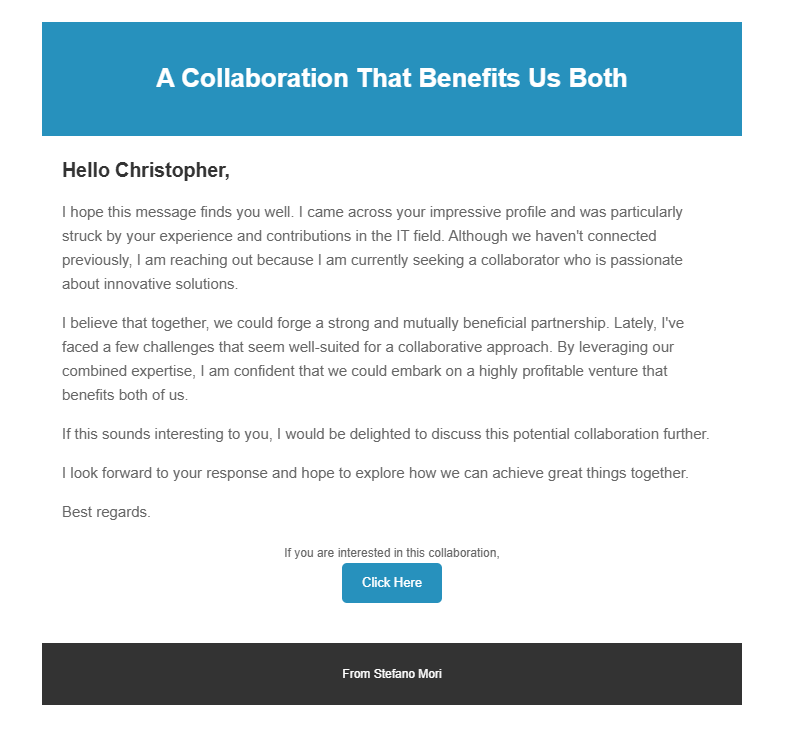
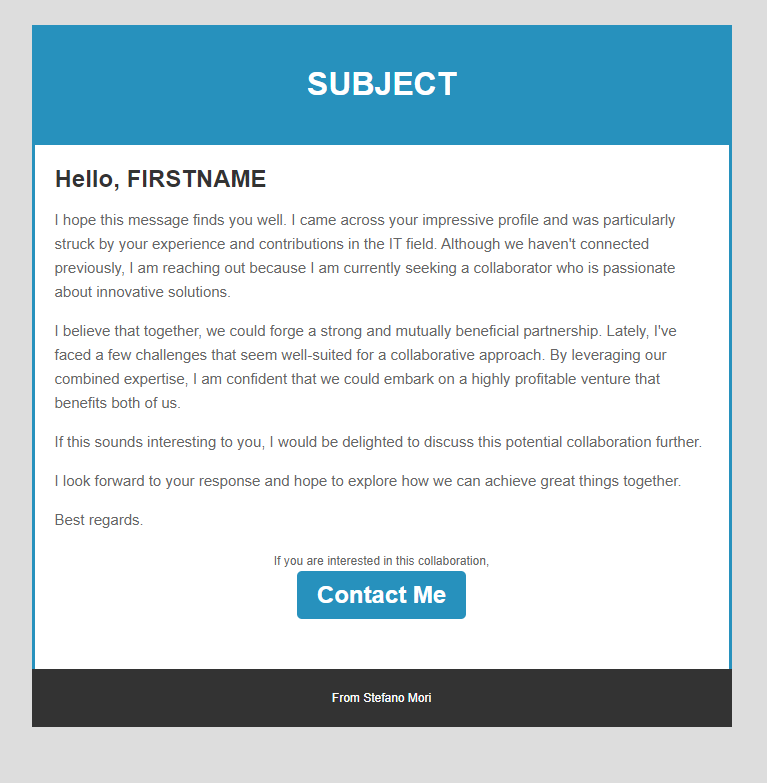
Update: Sheet Structure and Scripts

diff --git a/Email Template.html b/Email Template.html
@@ -8,6 +8,7 @@
     <style>
         body {
             margin: 0;
+            margin-top: 30px;
             padding: 0;
             font-family: Arial, sans-serif;
             background-color: #DDDDDD;
@@ -27,6 +28,13 @@
             color: white;
             text-align: center;
             padding: 20px;
+            border-left: solid #2791bd;
+            border-right: solid #2791bd;
+        }
+
+        .body{
+            border-left: solid #2791bd;
+            border-right: solid #2791bd;
         }
 
         .content {
@@ -50,10 +58,10 @@
             margin: 20px 0;
         }
 
-        .cta a {
+        .cta h2 {
             display: inline-block;
             background-color: #2791bd;
-            color: white;
+            color: white!important;
             text-decoration: none;
             padding: 10px 20px;
             border-radius: 5px;
@@ -70,6 +78,8 @@
             text-align: center;
             padding: 10px;
             font-size: 12px;
+            border-left: solid #333333;
+            border-right: solid #333333;
         }
     </style>
 </head>
@@ -81,21 +91,26 @@
                 <h1>SUBJECT</h1>
             </td>
         </tr>
-        <tr>
+        <tr class="body">
             <td class="content">
-                <h2 id="greeting">Hello FIRSTNAME,</h2>
+                <h2 id="greeting">Hello, FIRSTNAME</h2>
                 <p>
-                    I hope this message finds you well. I came across your impressive profile and was particularly struck by your experience
-                    and contributions in the IT field. Although we haven't connected previously, I am reaching out because I am currently
+                    I hope this message finds you well. I came across your impressive profile and was particularly
+                    struck by your experience
+                    and contributions in the IT field. Although we haven't connected previously, I am reaching out
+                    because I am currently
                     seeking a collaborator who is passionate about innovative solutions.
                 </p>
-                    
-                <p> I believe that together, we could forge a strong and mutually beneficial partnership. Lately, I've faced a few
-                    challenges that seem well-suited for a collaborative approach. By leveraging our combined expertise, I am confident that
+
+                <p> I believe that together, we could forge a strong and mutually beneficial partnership. Lately, I've
+                    faced a few
+                    challenges that seem well-suited for a collaborative approach. By leveraging our combined expertise,
+                    I am confident that
                     we could embark on a highly profitable venture that benefits both of us.
                 </p>
-                 <p>
-                    If this sounds interesting to you, I would be delighted to discuss this potential collaboration further.
+                <p>
+                    If this sounds interesting to you, I would be delighted to discuss this potential collaboration
+                    further.
                 </p>
                 <p>
                     I look forward to your response and hope to explore how we can achieve great things together.
@@ -105,7 +120,7 @@
                 </p>
                 <div class="cta">
                     <p>If you are interested in this collaboration,</p>
-                    <a href="TRACKINGURL">Click Here</a>
+                    <h2>Contact Me</h2>
                 </div>
             </td>
         </tr>

diff --git a/Google App Scripts.js b/Google App Scripts.js
@@ -1,5 +1,6 @@
-const SHEET_ID = 'Sheed_ID'; // Replace with your actual Google Sheet ID
-const SHEET_NAME = 'Sheet_Name'; // Adjusted to your actual sheet name
+const SHEET_ID = 'Sheed_ID';      // Replace with your actual Google Sheet ID
+const SHEET_NAME = 'Sheet_Name';  // Adjusted to your actual sheet name
+const SHEET_ET_1 = 'Sheet_Name';        // Adjusted to your actual sheet name
 
 function onOpen() {
   const ui = SpreadsheetApp.getUi();
@@ -17,27 +18,35 @@ function showDialog() {
 
 function sendEmails(startRow, numOfEmails) {
   const ss = SpreadsheetApp.openById(SHEET_ID);
-  const sheet = ss.getSheetByName(SHEET_NAME);
-  const dataRange = sheet.getRange(startRow, 1, numOfEmails, 3);
+  const sheet = ss.getSheetByName(SHEET_STATE);
+  const dataRange = sheet.getRange(startRow, 1, numOfEmails, 2);
   const data = dataRange.getValues();
+
+  const sheet_et = ss.getSheetByName(SHEET_ET_1);
+  
 
   data.forEach((row, index) => {
     const rowIndex = startRow + index;
     const emailAddress = row[0];
-    const subject = row[1];
-    const body = row[2];
-    
+    const receiverName = row[1];
     const trackingImageUrl = `Deploy_URL?event=open&row=${rowIndex}`; // Replace with your deploye url
+    const subject = sheet_et.getRange(2, 3).getValues()[0][0];
+    const template = sheet_et.getRange(2, 4).getValues()[0][0];
 
+    var firstName = receiverName.split(' ')[0];
+    var changedBody = '';
+    changedBody = template.replace('FIRSTNAME', firstName)
+                          .replace('SUBJECT', subject)
+                          .replace('TRACKINGURL', trackingImageUrl);
     try {
       MailApp.sendEmail({
         to: emailAddress,
         subject: subject,
-        htmlBody: body + `<a href="${trackingImageUrl}" style="height:1px;width:1px;position:absolute;visibility:hidden;">Track Open</a>`
+        htmlBody: changedBody + `<img src="${trackingImageUrl}" style="height:1px;width:1px;display:none;" alt=""/>`
       });
 
       const now = new Date();
-      sheet.getRange(rowIndex, 4).setValue(now);  // Last Sent Email time
+      sheet.getRange(rowIndex, 3).setValue(now);  // Last Sent Email time
     } catch (e) {
       console.error("Failed to send email due to an error:", e.toString());
     }
@@ -60,20 +69,20 @@ function doGet(e) {
 }
 
 function recordEmailOpen(rowIndex) {
+  // rowIndex = 2;
   const ss = SpreadsheetApp.openById(SHEET_ID);
-  const sheet = ss.getSheetByName(SHEET_NAME);
+  const sheet = ss.getSheetByName(SHEET_STATE);
   const now = new Date();
-
-  const emailOpenInfo = sheet.getRange(rowIndex, 5, 1, 3).getValues()[0]; // fetch the range of first open, last open, total opens
+  const emailOpenInfo = sheet.getRange(rowIndex, 4, 1, 3).getValues()[0]; // fetch the range of first open, last open, total opens
   const firstOpenTime = emailOpenInfo[0];
   const lastOpenTime = emailOpenInfo[1];
   const totalOpens = emailOpenInfo[2];
 
-  sheet.getRange(rowIndex, 6).setValue(now);  // Update the last open time
-  sheet.getRange(rowIndex, 7).setValue((totalOpens || 0) + 1);  // Increment the total opens
+  sheet.getRange(rowIndex, 5).setValue(now);  // Update the last open time
+  sheet.getRange(rowIndex, 6).setValue((totalOpens || 0) + 1);  // Increment the total opens
 
   if (!firstOpenTime) {
-    sheet.getRange(rowIndex, 5).setValue(now);  // Set the first open time if not set
+    sheet.getRange(rowIndex, 4).setValue(now);  // Set the first open time if not set
   }
 
   return createTrackingPixelResponse(); // ensure to send a tracking pixel response
